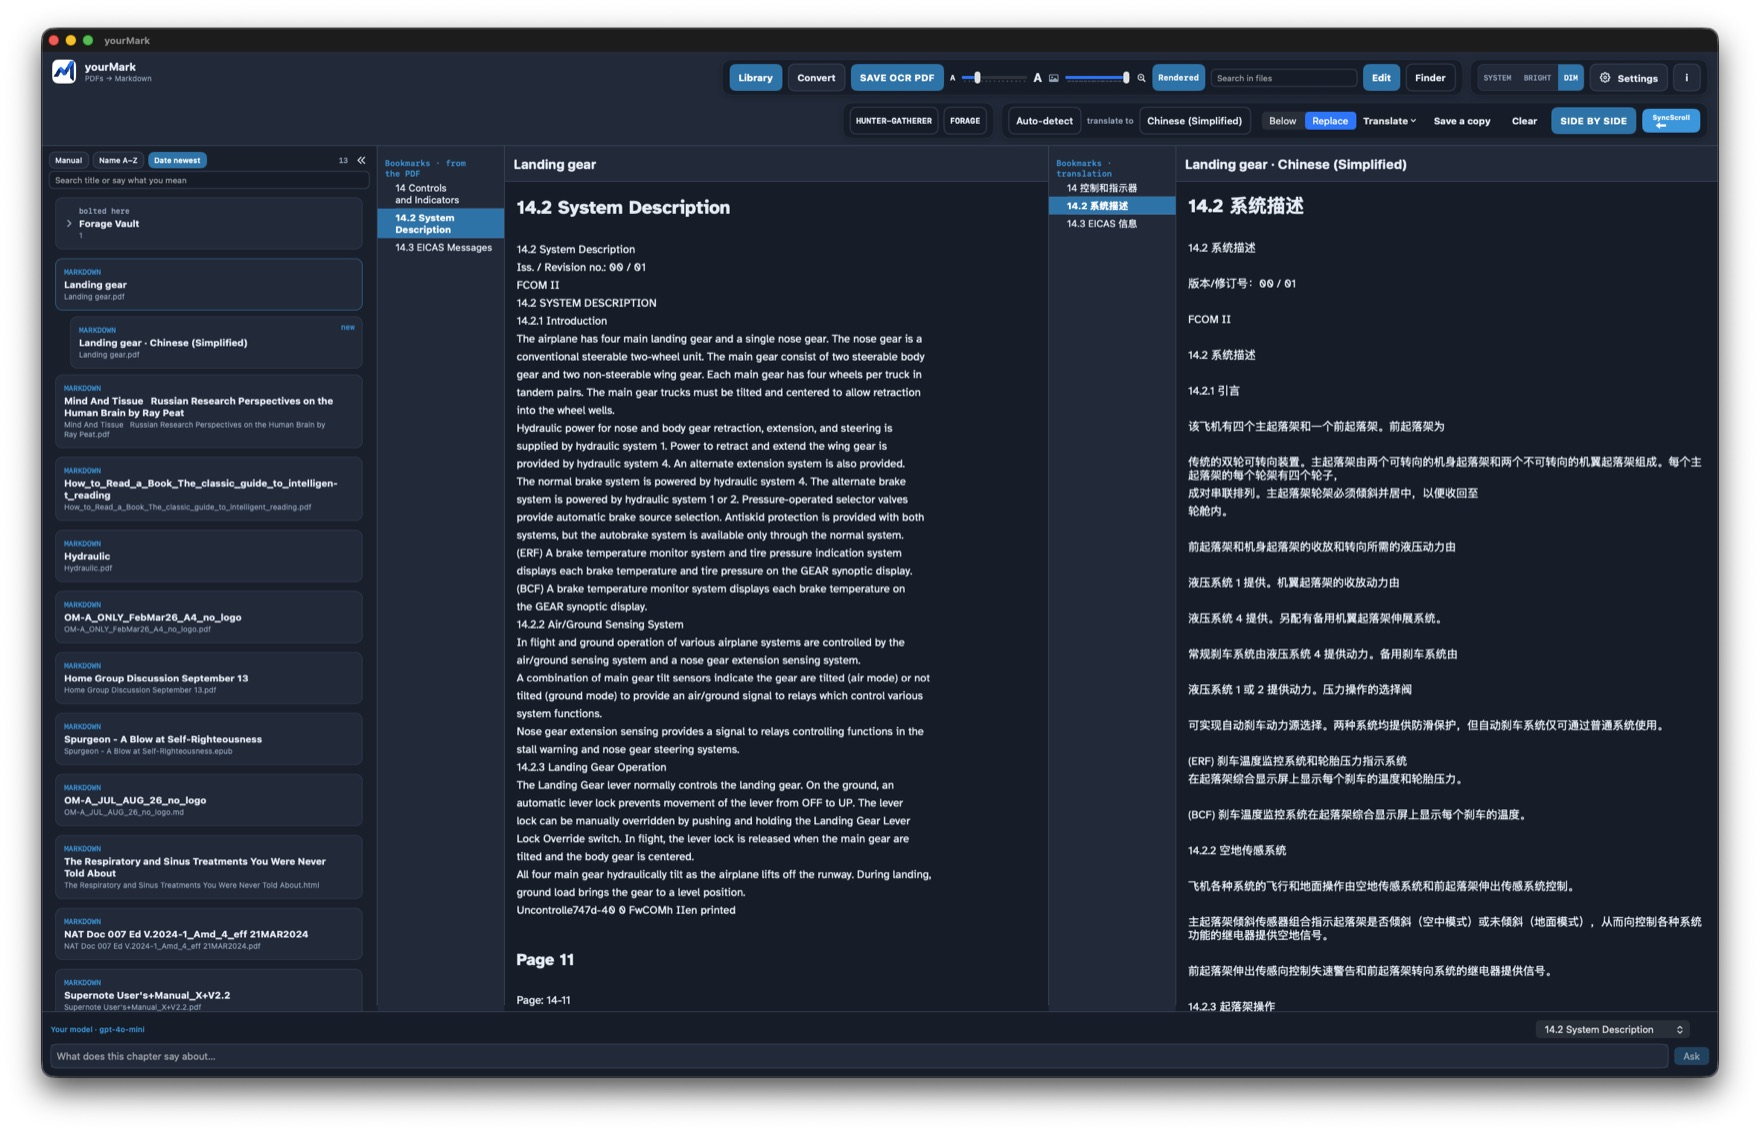
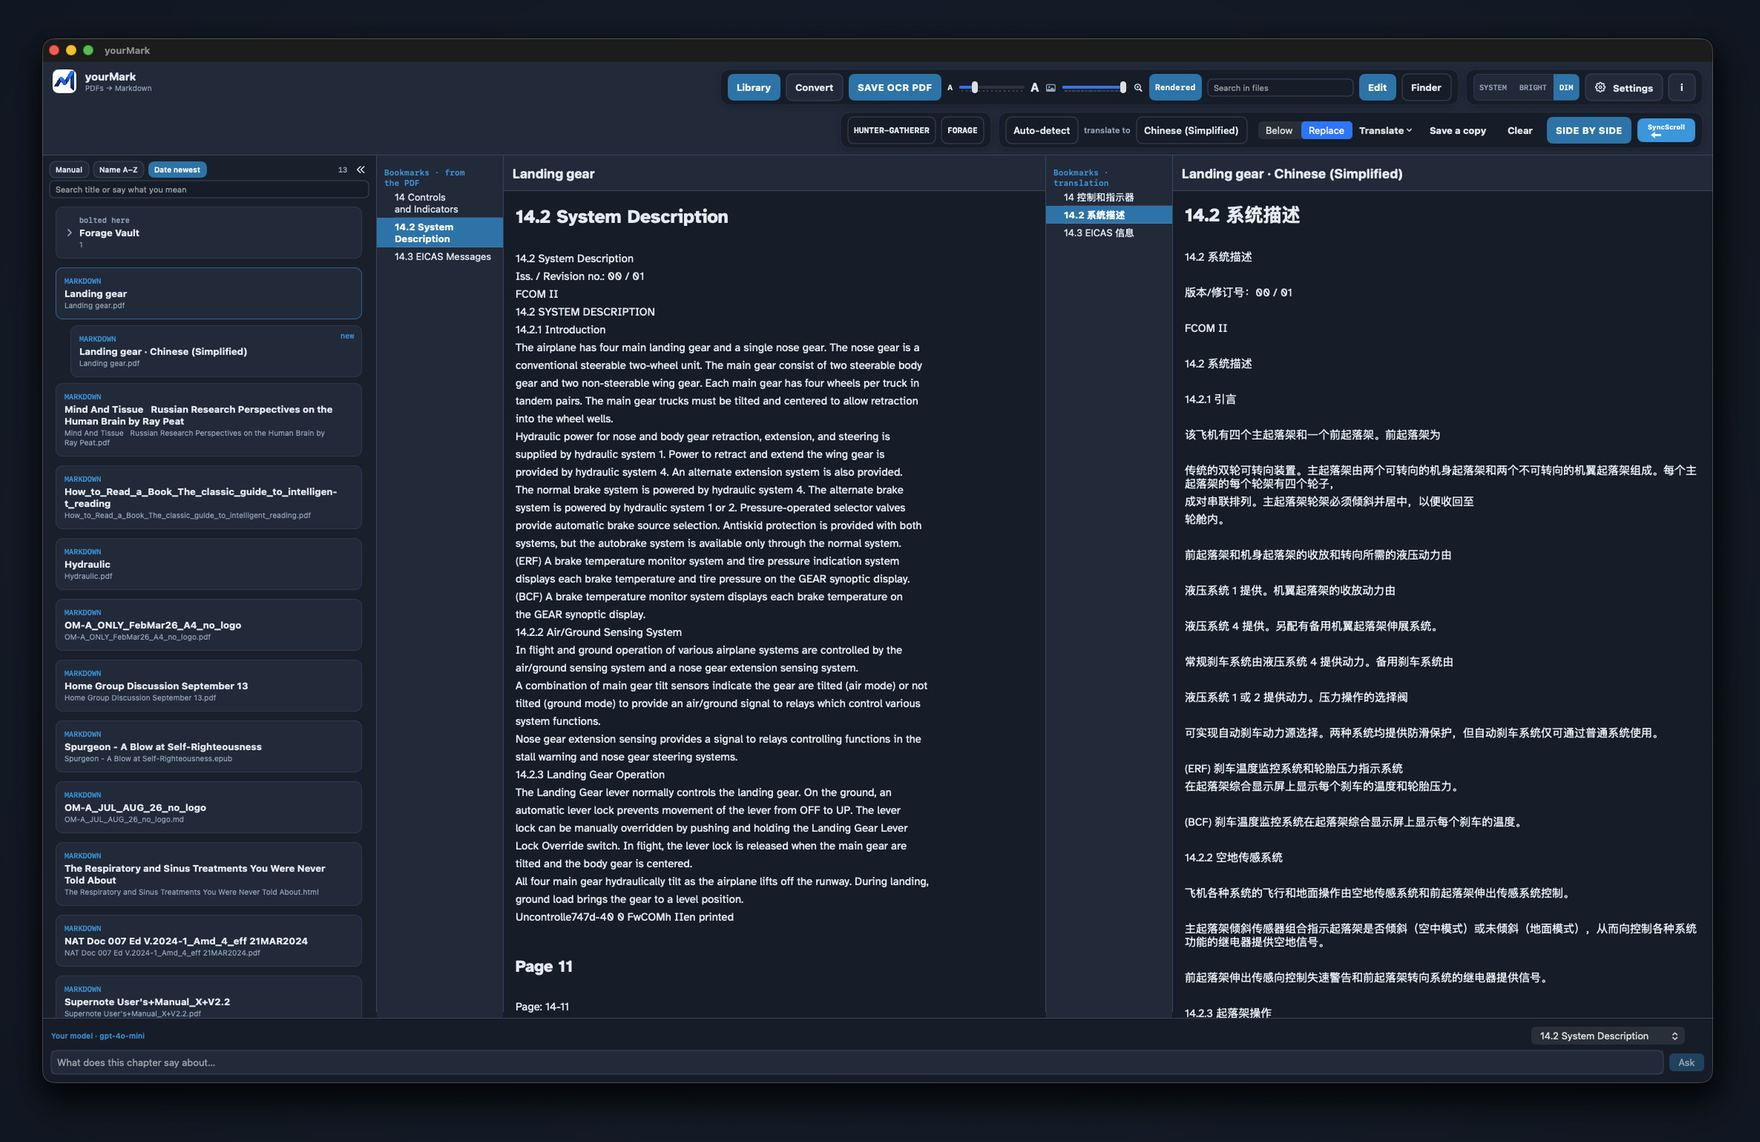
Refresh the intro Ask shot and note the window languages.
Ask is the current FORAGE window. Translate sits on a tighter navy canvas. Hunter-Gatherer is explained after Translate, and the window is US English, Spanish, or Dutch — more languages if an Ask key is locked in.

Changed region(s): [[0.0, 0.0, 1.0, 1.0], [0.1875, 0.1237, 0.5312, 0.8039], [0.2812, 0.8348, 0.3438, 0.8966]]

diff --git a/README.md b/README.md
@@ -12,6 +12,8 @@ A Mac app that turns PDFs — and Word, slides, or a spreadsheet — into **Mark
 
 The GitHub disk is named **yourMark**. The Mac App Store listing is **yourMark AI** (the short name was taken). Same app, two channels.
 
+The window is **US English**, **Spanish**, or **Dutch**. Lock an Ask AI key in Settings if you want more interface languages.
+
 ## Why Markdown?
 
 A PDF is a picture of a page. Markdown is the words, in order.
@@ -26,7 +28,7 @@ Keep the original PDF. Markdown is the working copy.
 - **Library** — file on the left, bookmarks in the middle, the text on the right. Search in files stays on this Mac. Ask a chapter at the bottom if you add a key.
 - **Translate** — From and To in the reader. A Google Translate key or an Ask AI key is enough; you do not need both. Below keeps the original; Replace shows only the translation. **SIDE BY SIDE** opens both languages and they can scroll together.
 - **Hunter-Gatherer / FORAGE** — select text, press Enter, keep clips on a dated note beside the reader.
-- **Settings** — choose the folder once (iCloud if you want). New Markdown in that folder appears in the library. Bright, Dim, or System in the header; your keys; extra help for scanned pages.
+- **Settings** — choose the folder once (iCloud if you want). New Markdown in that folder appears in the library. Interface language is US English, Spanish, or Dutch — an Ask AI key can add more. Bright, Dim, or System in the header; your keys; extra help for scanned pages.
 
 yourMark is the window. [Microsoft MarkItDown](https://github.com/microsoft/markitdown) does the converting, on this Mac. If Microsoft publishes an update, yourMark can install it for you.
 
@@ -74,13 +76,15 @@ Lock a **Google Translate** key or an **Ask AI** key in Settings — either one 
 
 **SIDE BY SIDE** opens the pair. **SyncScroll** keeps the headings together. Save a copy writes a second file (for example `Manual.es.md`). The original Markdown is not overwritten. Convert still stays on this Mac. Google Translate is incredibly fast.
 
+**Hunter-Gatherer** is for clipping as you read. Select text and press Enter: each piece keeps its chapter and page and lands on a dated **FORAGE** note beside the reader. Press **FORAGE** to keep that note open while you change files. After Ask, **Add displayed Search Result to Forage** keeps the line you found — and your question — on today’s note.
+
 <br>
 
 ## Ask
 
 <br>
 
-<img src="docs/shots/ask-history.jpg" width="880" alt="Ask pane: a question, recent Asks, and an answer from this file">
+<img src="docs/shots/ask-and-forage.jpg" width="880" alt="Ask and FORAGE: a question in the file, gathered clips, and Add to Forage">
 
 <br>
 
